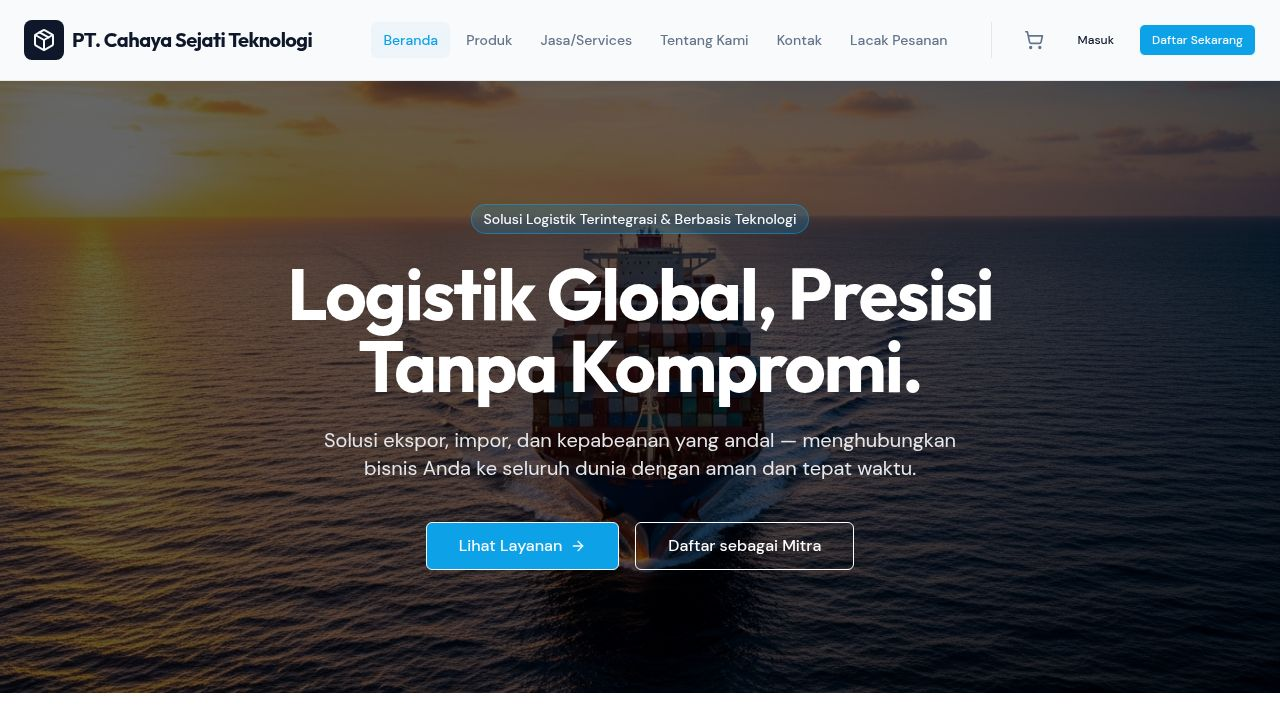
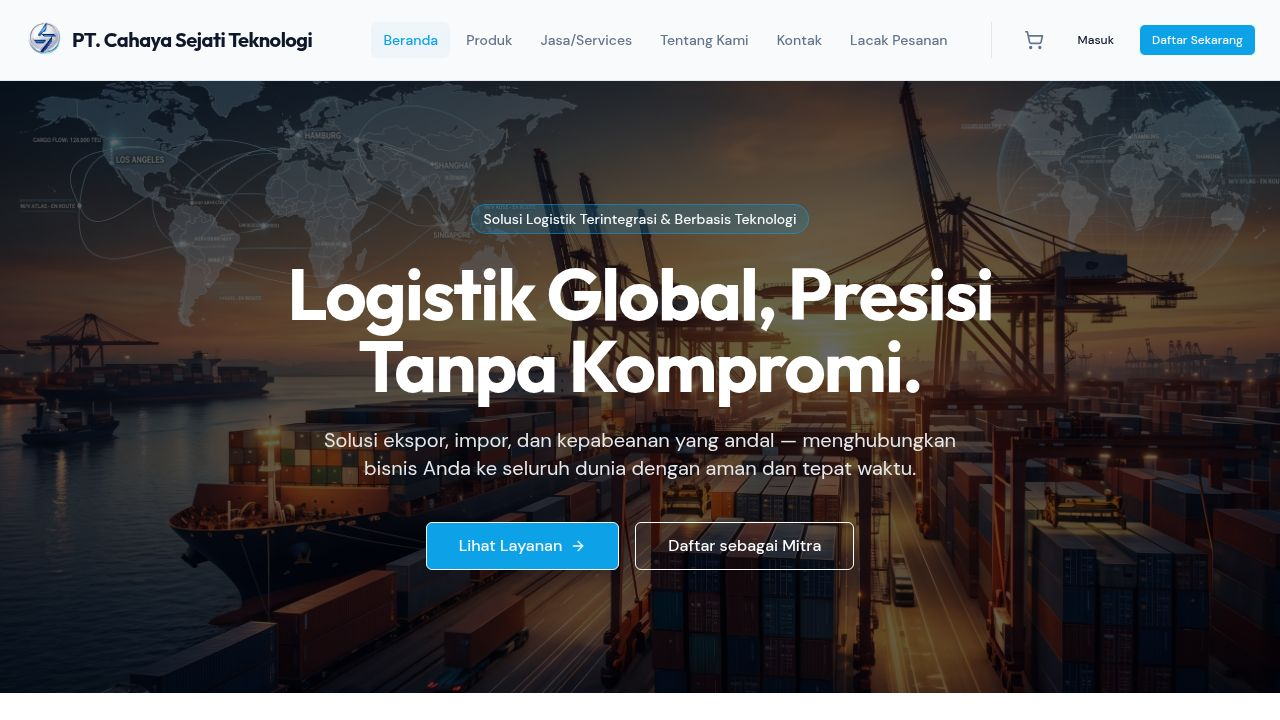
Add product details to order invoices and admin views
Update `logistic-admin-order-detail.tsx` and `logistic-order-success.tsx` to display commodity and cargo description.

Replit-Commit-Author: Agent
Replit-Commit-Session-Id: 520a34e6-5d48-4b0a-a6ec-1f55932bfec0
Replit-Commit-Checkpoint-Type: full_checkpoint
Replit-Commit-Event-Id: d147ff40-252c-4dd7-835d-5a5e99d1094e
Replit-Commit-Screenshot-Url: https://storage.googleapis.com/screenshot-production-us-central1/9a6cd6da-e9c6-4b97-9350-b20db06474fd/520a34e6-5d48-4b0a-a6ec-1f55932bfec0/8AGK93I
Replit-Helium-Checkpoint-Created: true

diff --git a/artifacts/customer-portal/src/pages/logistic-order-success.tsx b/artifacts/customer-portal/src/pages/logistic-order-success.tsx
@@ -76,7 +76,22 @@ export default function OrderSuccessPage() {
 
         {/* Order Items */}
         <div className="bg-card border border-border rounded-xl p-5">
-          <h3 className="font-semibold text-foreground text-sm mb-3">Layanan Dipesan ({order.items.length})</h3>
+          <h3 className="font-semibold text-foreground text-sm mb-3">Rincian Pesanan</h3>
+
+          {/* Commodity / product row */}
+          {(order.commodity || order.cargoDescription) && (
+            <div className="mb-3 rounded-lg bg-amber-50 border border-amber-200 px-3 py-2.5 space-y-0.5">
+              <p className="text-[10px] font-semibold text-amber-600 uppercase tracking-wide">Barang / Komoditi</p>
+              {order.commodity && (
+                <p className="text-sm font-semibold text-foreground">{order.commodity}</p>
+              )}
+              {order.cargoDescription && (
+                <p className="text-xs text-muted-foreground">{order.cargoDescription}</p>
+              )}
+            </div>
+          )}
+
+          {/* Services */}
           <div className="space-y-2">
             {order.items.map((item) => (
               <div key={item.id} className="flex items-center justify-between gap-3 py-2 border-b border-border last:border-0">
@@ -91,7 +106,9 @@ export default function OrderSuccessPage() {
           <Separator className="my-3" />
           <div className="space-y-1.5">
             <div className="flex justify-between text-sm">
-              <span className="text-muted-foreground">Subtotal</span>
+              <span className="text-muted-foreground">
+                {order.items.length === 1 ? order.items[0].serviceName : "Subtotal"}
+              </span>
               <span>{formatCurrency(order.subtotal)}</span>
             </div>
             <div className="flex justify-between text-sm">

diff --git a/artifacts/customer-portal/src/pages/logistic-admin-order-detail.tsx b/artifacts/customer-portal/src/pages/logistic-admin-order-detail.tsx
@@ -161,8 +161,18 @@ export default function AdminOrderDetail() {
         {/* Order Items */}
         <div className="bg-card border border-border rounded-xl p-5">
           <h3 className="font-semibold text-foreground text-sm flex items-center gap-2 mb-4">
-            <Package className="w-4 h-4 text-accent" /> Layanan Dipesan ({order.items.length})
+            <Package className="w-4 h-4 text-accent" /> Rincian Pesanan
           </h3>
+
+          {/* Commodity */}
+          {(order.commodity || order.cargoDescription) && (
+            <div className="mb-4 rounded-lg bg-amber-50 border border-amber-200 px-3 py-2.5 space-y-0.5">
+              <p className="text-[10px] font-semibold text-amber-600 uppercase tracking-wide">Barang / Komoditi</p>
+              {order.commodity && <p className="text-sm font-semibold text-foreground">{order.commodity}</p>}
+              {order.cargoDescription && <p className="text-xs text-muted-foreground">{order.cargoDescription}</p>}
+            </div>
+          )}
+
           <div className="space-y-3">
             {order.items.map((item) => (
               <div key={item.id} className="bg-muted/30 rounded-lg p-4">

diff --git a/artifacts/customer-portal/src/components/layout/Footer.tsx b/artifacts/customer-portal/src/components/layout/Footer.tsx
@@ -1,4 +1,4 @@
-import { Link } from "wouter";
+  import { Link } from "wouter";
 import { Package, Mail, MapPin, Phone } from "lucide-react";
 import { useGetPortalCompany } from "@workspace/api-client-react";
 